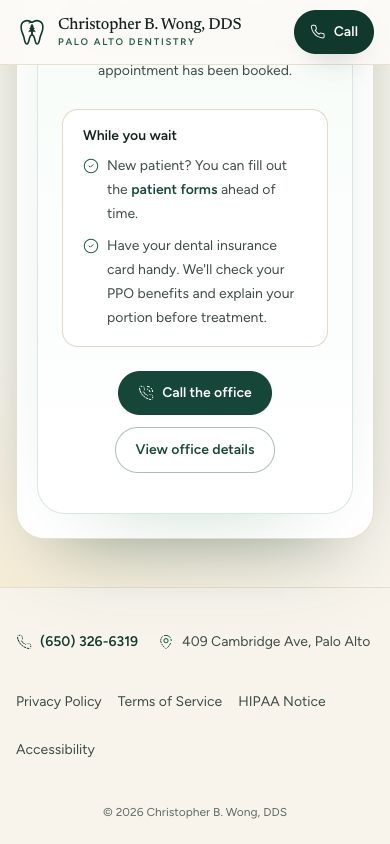
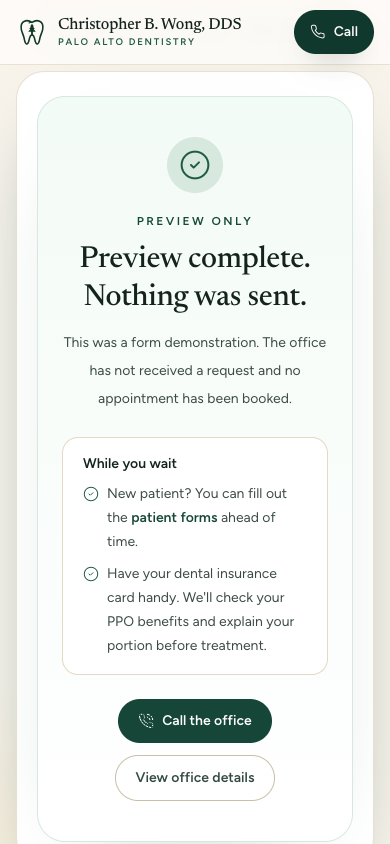
fix: bring appointment confirmations into view on phones

diff --git a/client/src/components/forms/AppointmentForm.tsx b/client/src/components/forms/AppointmentForm.tsx
@@ -1047,6 +1047,7 @@ const AppointmentForm = ({
   const abandonmentTimersRef = useRef<number[]>([]);
   const lastStepViewRef = useRef("");
   const headingRef = useRef<HTMLHeadingElement>(null);
+  const confirmationRef = useRef<HTMLDivElement>(null);
   const errorAlertRef = useRef<HTMLDivElement>(null);
   const honeypotRef = useRef<HTMLInputElement>(null);
   const shouldFocusHeadingRef = useRef(false);
@@ -1054,6 +1055,16 @@ const AppointmentForm = ({
   const submitInFlightRef = useRef(false);
   const leadEmittedRef = useRef(false);
   const rateLimitTimerRef = useRef<number | null>(null);
+
+  useEffect(() => {
+    if (status !== "success") return;
+    const frame = window.requestAnimationFrame(() => {
+      confirmationRef.current?.focus({ preventScroll: true });
+      confirmationRef.current?.scrollIntoView({ block: "start", behavior: "instant" });
+    });
+    return () => window.cancelAnimationFrame(frame);
+  }, [status]);
+
   const stepTrackingRef = useRef<{ index: number; name: StepName }>({
     index: 1,
     name: "visit_needs",
@@ -1600,7 +1611,10 @@ const AppointmentForm = ({
   if (status === "success") {
     return (
       <div
+        ref={confirmationRef}
+        tabIndex={-1}
         className={cn(
+          "scroll-mt-24 outline-none",
           presentation === "funnel"
             ? "rounded-[28px] border border-evergreen-100 bg-[linear-gradient(180deg,#f3fbf6_0%,#ffffff_100%)] px-6 py-10 text-center shadow-[0_30px_90px_-60px_rgba(22,101,52,0.45)] sm:px-10"
             : "rounded-xl border border-evergreen-100 bg-evergreen-50 p-6 text-center",

diff --git a/tests/mobile/schedule-lead-guard.spec.ts b/tests/mobile/schedule-lead-guard.spec.ts
@@ -204,6 +204,7 @@ test.describe("schedule lead guard", () => {
     await openContactStep(page, "/invisalign-consult");
     await page.getByRole("button", { name: "Send Appointment Request", exact: true }).click();
     await expect(page.getByRole("heading", { name: "Preview complete. Nothing was sent." })).toBeVisible();
+    await expect(page.getByRole("heading", { name: "Preview complete. Nothing was sent." })).toBeInViewport();
     await expect(page.getByRole("status").filter({ hasText: "Preview only" })).toContainText("office has not received a request");
     expect(await countGtagEvents(page, "generate_lead")).toBe(0);
     expect(await countGtagEvents(page, "schedule_submit_success")).toBe(0);
